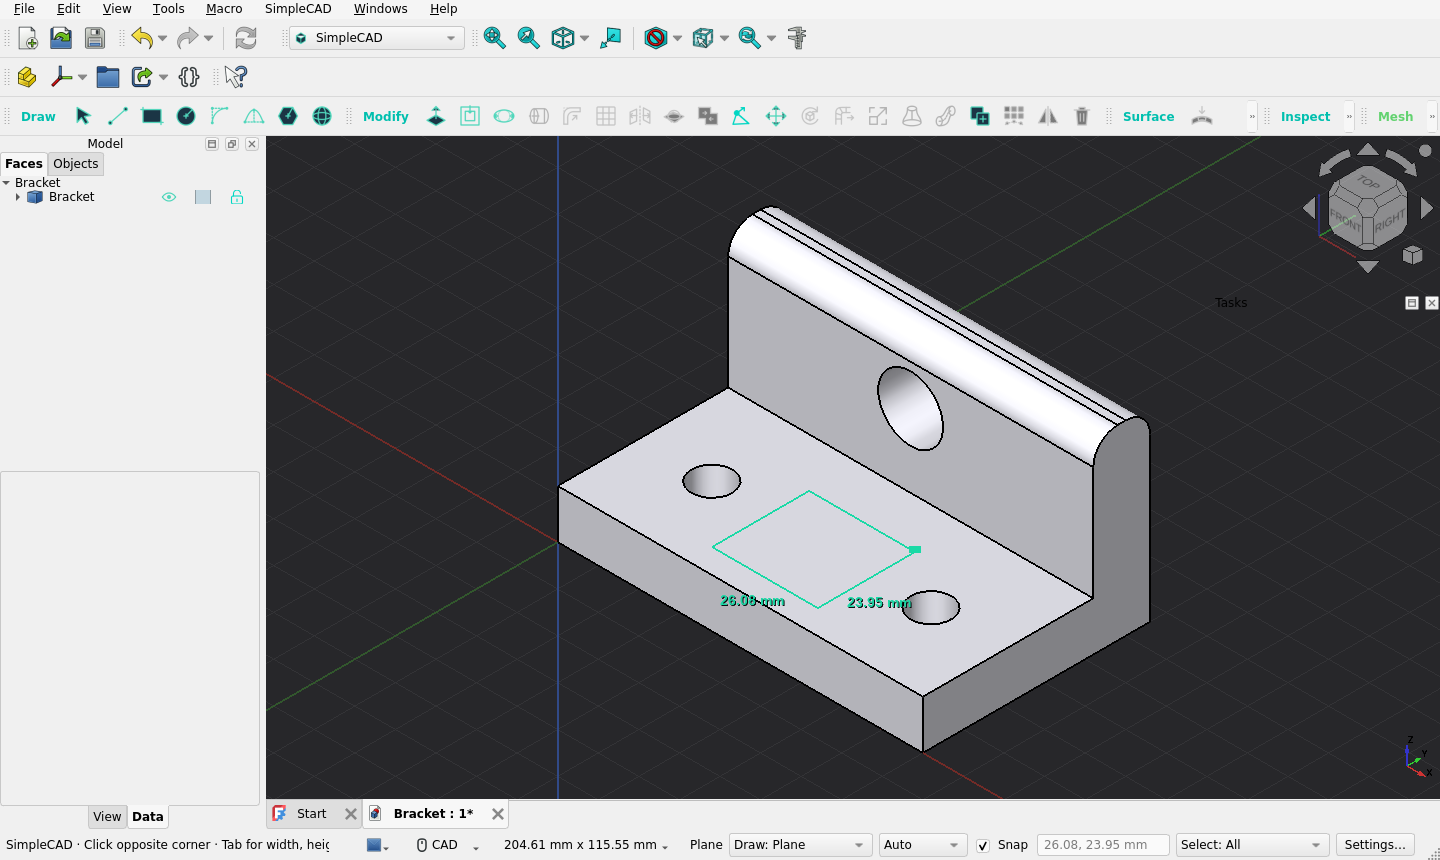
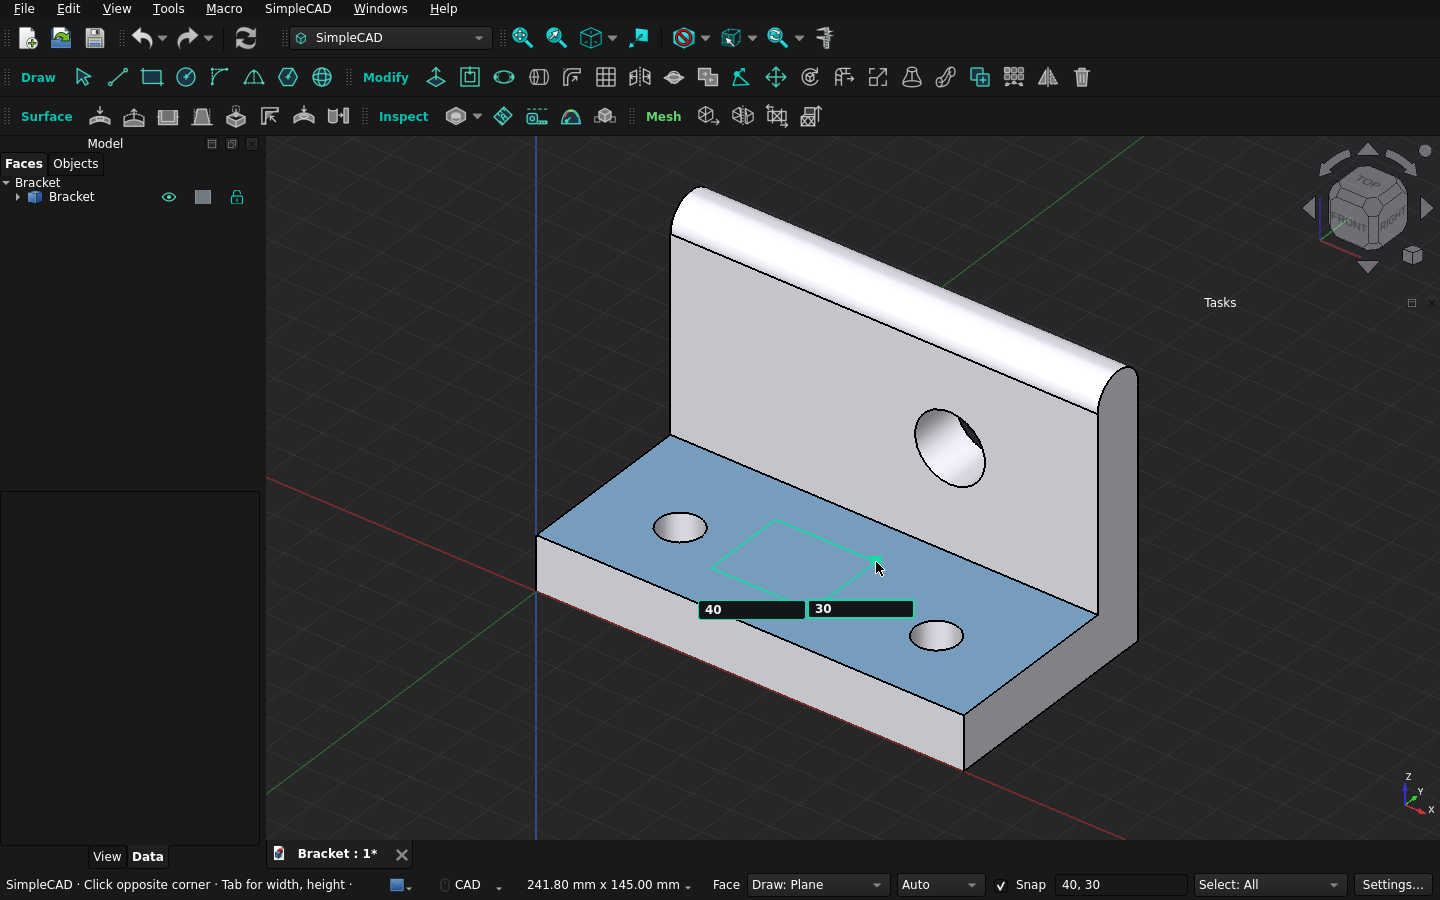
Show the current toolbar and size boxes in the README picture
The picture showed the toolbar of the first public release in one row,
and sizes as labels rather than the boxes that now open in the view.

diff --git a/README.md b/README.md
@@ -11,7 +11,7 @@ edited as they are.
 [![Unit tests](https://github.com/igsova/SimpleCAD/actions/workflows/tests.yml/badge.svg)](https://github.com/igsova/SimpleCAD/actions/workflows/tests.yml)
 [![Lint](https://github.com/igsova/SimpleCAD/actions/workflows/lint.yml/badge.svg)](https://github.com/igsova/SimpleCAD/actions/workflows/lint.yml)
 
-![SimpleCAD drawing a rectangle on a bracket, with its width and height shown beside the preview](docs/images/overview.png)
+![SimpleCAD drawing a rectangle on a bracket, with 40 and 30 typed in the width and height boxes beside the preview](docs/images/overview.png)
 
 ## Features
 
